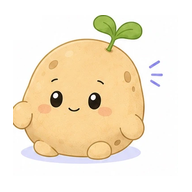
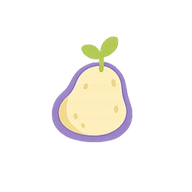
feat(brand): 확정 캐릭터·로고 자산 전면 도입
- 치토 감정 5종(안정/다짐/멍함/울컥/불안, 다크+글로우) 정사각 크롭 적용
  매핑: calm·main=안정 / happy=다짐 / neutral=멍함 / sad·angry=울컥 / anxious=불안
- 마이치 엠블럼: 파비콘·PWA 아이콘(192/512/maskable/apple)·채팅 아바타·푸터
- 워드마크: 랜딩 네비·사이드바(logo.png 교체)·로그인 페이지
- CharacterAvatar object-cover+rounded (다크 일러스트 대응)
- www.mych.co.kr -> mych.co.kr 리다이렉트

diff --git a/src/pages/CoachingPage.tsx b/src/pages/CoachingPage.tsx
@@ -1,4 +1,4 @@
-import { useState, useRef, useEffect, useCallback } from "react";
+import { useState, useRef, useEffect, useCallback } from "react";
 import { Button } from "@/components/ui/button";
 import { Input } from "@/components/ui/input";
 import { Badge } from "@/components/ui/badge";
@@ -18,7 +18,7 @@ import { runAgentActions, type AgentDecision } from "@/services/agentEngine";
 import { getRecentEmotions, buildEmotionSummary } from "@/services/agentActions";
 import { fetchCurrentCredits, formatCredits, estimateConversations, type CreditState } from "@/lib/credits";
 import CreditUpsellModal from "@/components/coaching/CreditUpsellModal";
-import { CHITO_MAIN_URL } from "@/lib/character/chito";
+import { CHITO_EMBLEM_URL } from "@/lib/character/chito";
 
 export default function CoachingPage() {
   const navigate = useNavigate();
@@ -398,7 +398,7 @@ export default function CoachingPage() {
             <Menu className="w-4 h-4" />
           </Button>
           <div className="w-9 h-9 rounded-full bg-gradient-to-br from-primary/10 to-secondary/10 flex items-center justify-center shrink-0 shadow-sm overflow-hidden">
-            <img src={CHITO_MAIN_URL} alt="치토" className="w-8 h-8 object-contain" />
+            <img src={CHITO_EMBLEM_URL} alt="치토" className="w-8 h-8 object-contain" />
           </div>
           <div className="min-w-0">
             <div className="font-bold text-sm">치토</div>
@@ -463,7 +463,7 @@ export default function CoachingPage() {
               <div className={`flex gap-2.5 ${msg.role === "user" ? "justify-end" : ""}`}>
                 {msg.role === "ai" && (
                   <div className="w-8 h-8 rounded-full bg-gradient-to-br from-primary/10 to-secondary/10 flex items-center justify-center shrink-0 mt-0.5 shadow-sm overflow-hidden">
-                    <img src={CHITO_MAIN_URL} alt="치토" className="w-7 h-7 object-contain" />
+                    <img src={CHITO_EMBLEM_URL} alt="치토" className="w-7 h-7 object-contain" />
                   </div>
                 )}
                 <div className={`max-w-[80%] px-4 py-3 rounded-2xl text-sm leading-relaxed whitespace-pre-wrap ${msg.role === "user" ? "gradient-primary text-primary-foreground rounded-br-md shadow-sm" : "bg-card border border-primary/15 rounded-bl-md shadow-sm"}`}>
@@ -524,7 +524,7 @@ export default function CoachingPage() {
           ))}
           {isTyping && messages[messages.length - 1]?.role !== "ai" && (
             <div className="flex gap-2.5">
-              <div className="w-8 h-8 rounded-full bg-gradient-to-br from-primary/10 to-secondary/10 flex items-center justify-center shrink-0 shadow-sm overflow-hidden"><img src={CHITO_MAIN_URL} alt="치토" className="w-7 h-7 object-contain" /></div>
+              <div className="w-8 h-8 rounded-full bg-gradient-to-br from-primary/10 to-secondary/10 flex items-center justify-center shrink-0 shadow-sm overflow-hidden"><img src={CHITO_EMBLEM_URL} alt="치토" className="w-7 h-7 object-contain" /></div>
               <div className="bg-card border border-primary/15 rounded-2xl rounded-bl-md px-4 py-3 shadow-sm">
                 <div className="flex gap-1.5">
                   <span className="w-2 h-2 rounded-full bg-primary/40 animate-bounce" style={{ animationDelay: "0ms" }} />

diff --git a/src/components/emotion/EmotionAgentChat.tsx b/src/components/emotion/EmotionAgentChat.tsx
@@ -1,4 +1,4 @@
-/* ─── Emotion Agent Chat Component ─────────────────── */
+/* ─── Emotion Agent Chat Component ─────────────────── */
 import { useState, useRef, useEffect, useCallback } from "react";
 import { Card } from "@/components/ui/card";
 import { Button } from "@/components/ui/button";
@@ -9,7 +9,7 @@ import { useNavigate } from "react-router-dom";
 import { supabase } from "@/integrations/supabase/client";
 import { toast } from "@/hooks/use-toast";
 import { detectCrisisSignal } from "@/data/seed-data";
-import { CHITO_MAIN_URL } from "@/lib/character/chito";
+import { CHITO_EMBLEM_URL } from "@/lib/character/chito";
 import {
   emotionOptions,
   secondaryEmotionMap,
@@ -504,7 +504,7 @@ export default function EmotionAgentChat({ userId, onRecordSaved, todayRecord }:
       {step === 'idle' && (
         <div className="flex-1 flex flex-col items-center justify-center gap-4 px-4">
           <div className="w-24 h-24 rounded-full bg-gradient-to-br from-primary/10 to-secondary/10 flex items-center justify-center overflow-hidden">
-            <img src={CHITO_MAIN_URL} alt="치토" className="w-20 h-20 object-contain" />
+            <img src={CHITO_EMBLEM_URL} alt="치토" className="w-20 h-20 object-contain" />
           </div>
           <p className="text-sm text-muted-foreground text-center">치토가 오늘의 감정을 기록할 수 있도록 도와줄게요</p>
 
@@ -528,7 +528,7 @@ export default function EmotionAgentChat({ userId, onRecordSaved, todayRecord }:
                 <div className={`max-w-[85%] ${msg.role === 'user' ? '' : 'flex gap-2'}`}>
                   {msg.role === 'agent' && (
                     <div className="w-8 h-8 rounded-full bg-gradient-to-br from-primary/10 to-secondary/10 flex items-center justify-center shrink-0 mt-1 overflow-hidden">
-                      <img src={CHITO_MAIN_URL} alt="치토" className="w-7 h-7 object-contain" />
+                      <img src={CHITO_EMBLEM_URL} alt="치토" className="w-7 h-7 object-contain" />
                     </div>
                   )}
                   <div>

diff --git a/src/pages/ResultsPage.tsx b/src/pages/ResultsPage.tsx
@@ -1,4 +1,4 @@
-import { useParams, useNavigate, useLocation } from "react-router-dom";
+import { useParams, useNavigate, useLocation } from "react-router-dom";
 import { Button } from "@/components/ui/button";
 import { Card } from "@/components/ui/card";
 import { Badge } from "@/components/ui/badge";
@@ -23,7 +23,7 @@ import {
   type DomainScores,
   type DomainKey,
 } from "@/lib/character/recommend";
-import { CHITO_MAIN_URL } from "@/lib/character/chito";
+import { CHITO_EMBLEM_URL } from "@/lib/character/chito";
 
 function getBarColor(score: number, max: number) {
   const pct = (score / max) * 100;
@@ -383,7 +383,7 @@ export default function ResultsPage() {
         <Card className="p-5 rounded-2xl border-0 shadow-sm bg-gradient-to-br from-primary/10 via-primary/5 to-purple-500/10">
           <div className="flex items-start gap-3">
             <div className="w-10 h-10 rounded-xl bg-white/70 flex items-center justify-center shrink-0 overflow-hidden">
-              <img src={CHITO_MAIN_URL} alt="치토" className="w-9 h-9 object-contain" loading="lazy" />
+              <img src={CHITO_EMBLEM_URL} alt="치토" className="w-9 h-9 object-contain" loading="lazy" />
             </div>
             <div className="flex-1">
               <div className="text-xs font-semibold text-primary mb-1">치토의 조언</div>

diff --git a/src/pages/AuthPage.tsx b/src/pages/AuthPage.tsx
@@ -1,7 +1,7 @@
 import { Button } from "@/components/ui/button";
 import { Input } from "@/components/ui/input";
 import { Label } from "@/components/ui/label";
-import { Sparkles, Loader2 } from "lucide-react";
+import { Loader2 } from "lucide-react";
 import { useNavigate } from "react-router-dom";
 import { useAuth } from "@/hooks/useAuth";
 import { useEffect, useState } from "react";
@@ -72,9 +72,8 @@ export default function AuthPage() {
     <div className="min-h-screen flex items-center justify-center px-6 bg-background">
       <div className="w-full max-w-sm animate-reveal-up space-y-6">
         <div className="text-center">
-          <div className="flex items-center justify-center gap-2 mb-4">
-            <Sparkles className="w-6 h-6 text-primary" />
-            <span className="text-xl font-bold">마이치</span>
+          <div className="flex items-center justify-center mb-4">
+            <img src="/brand/wordmark.png" alt="마이치" className="h-12 w-auto" />
           </div>
           <h1 className="text-2xl font-bold mb-1">시작하기</h1>
           <p className="text-sm text-muted-foreground">카카오 계정으로 1초 만에 시작하세요.</p>

diff --git a/src/components/landing/LandingFooter.tsx b/src/components/landing/LandingFooter.tsx
@@ -1,12 +1,10 @@
-import { Sparkles } from "lucide-react";
-
 export default function LandingFooter() {
   return (
     <footer className="py-12 px-6 border-t border-border/50">
       <div className="container max-w-4xl">
         <div className="flex flex-col md:flex-row items-center justify-between gap-6 mb-8">
           <div className="flex items-center gap-2 font-bold">
-            <Sparkles className="w-4 h-4 text-primary" />
+            <img src="/brand/emblem.png" alt="" className="w-5 h-5 object-contain" />
             마이치
           </div>
           <div className="flex gap-6 text-sm text-muted-foreground">

diff --git a/src/lib/character/chito.ts b/src/lib/character/chito.ts
@@ -12,6 +12,10 @@ export const CHITO = {
 
 export const CHITO_MAIN_URL = '/chito/main.webp';
 
+// 2026-08-13 확정 브랜드 자산: 엠블럼(투명 PNG, 작은 아바타·아이콘용) / 워드마크(로고타입)
+export const CHITO_EMBLEM_URL = '/brand/emblem.png';
+export const MYCH_WORDMARK_URL = '/brand/wordmark.png';
+
 export function getChitoEmotionUrl(emotion: PrimaryEmotion): string {
   return `/chito/${emotion}.webp`;
 }

diff --git a/src/components/character/CharacterAvatar.tsx b/src/components/character/CharacterAvatar.tsx
@@ -25,7 +25,7 @@ export function CharacterAvatar({ emotion, size, className }: Props) {
       src={src}
       alt={`${CHITO.name}${emotion ? ` - ${emotion}` : ''}`}
       onError={() => setErrored(true)}
-      className={`object-contain ${SIZE_CLASS[size]} ${className ?? ''}`}
+      className={`object-cover rounded-3xl ${SIZE_CLASS[size]} ${className ?? ''}`}
       loading="lazy"
     />
   );
